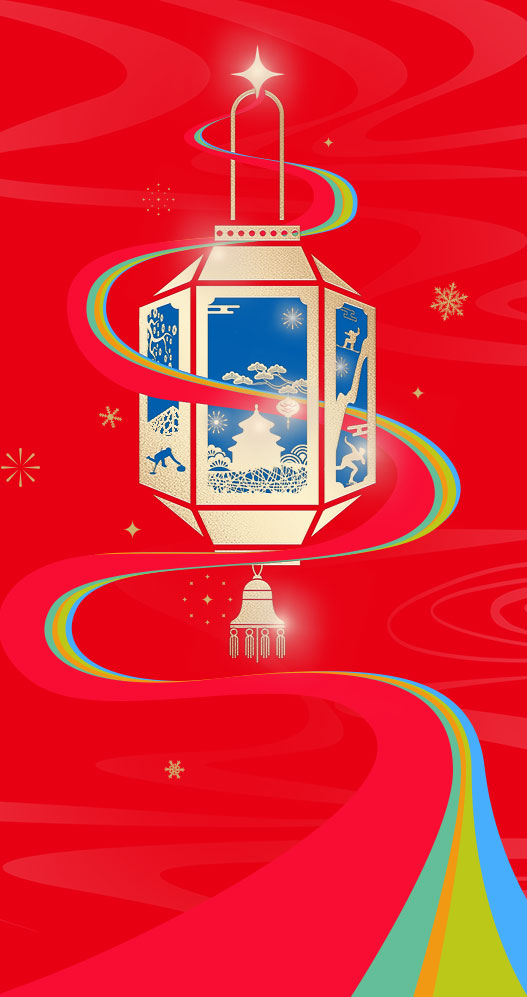
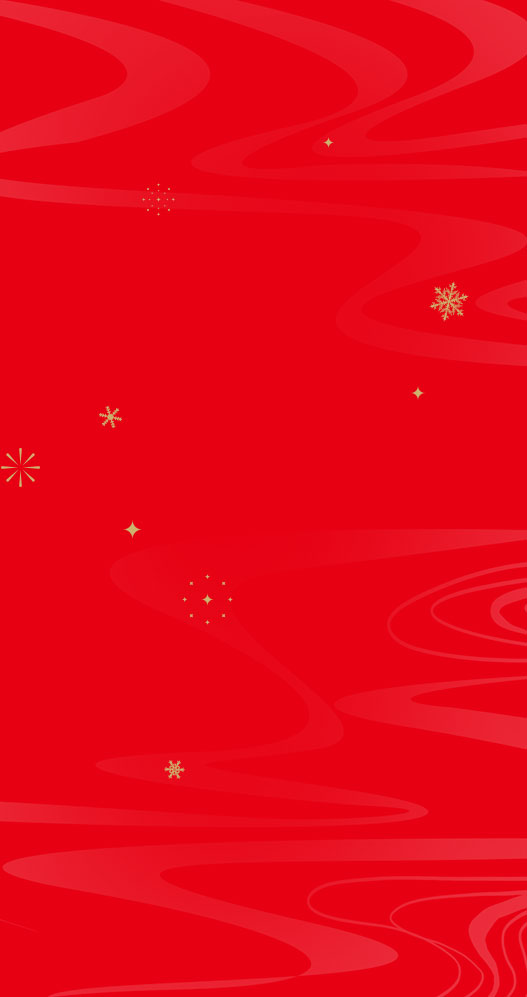
...

diff --git a/css/app.css b/css/app.css
@@ -5,15 +5,18 @@ html, body { height: 100%; background-color: #e70013; }
 .m-btn { position: absolute; right: 10px; top: 10px; width: 20px; height: 20px; border: 2px solid white; border-radius: 50%;}
 .m-btn { background: black url("../img/switch.png") 50% 50%/100% 100% no-repeat; opacity: 0.5; z-index: 99;}
 
-.ele { position: absolute; }
+.ele { position: absolute }
 .ele img { width: 100%; }
+.intro { display: none }
 .bar { position: absolute; width: 100%; left: 0; bottom: 0; padding: 10px 0 20px; text-align: center; background-color: white }
 
 .m-btn { animation: key-btn 600ms ease infinite; }
-.intro { animation: key-intro 2s ease; }
+.intro1 { animation: key-intro1 1s; height: 700px; background: url("../img/017.png") center top; background-size: cover }
+.intro2 { animation: key-intro2 1s; }
+.intro3 { animation: key-intro3 2s; }
 .roll { animation: key-roll 2s ease-in-out infinite alternate-reverse; }
-.loop { animation: key-loop 3s ease infinite; }
-.loop2 { animation: key-scale 8s ease-in infinite; }
+.loop { animation: key-loop 3s ease infinite; display: none }
+.loop2 { animation: key-scale 6s ease-in infinite; }
 .moving1 { animation: key-slider1 12s ease infinite; }
 .moving2 { animation: key-slider2 10s ease infinite; }
 .moving3 { animation: key-slider3 10s ease infinite; }
@@ -25,14 +28,20 @@ html, body { height: 100%; background-color: #e70013; }
     50% { transform: scale(1.1);}
     100% { transform: scale(1);}
 }
-@keyframes key-intro {
-    from { transform: scale(0.5); opacity: 0 }
+@keyframes key-intro1 {
+    from { height: 0 }
+}
+@keyframes key-intro2 {
+    from { transform: translateY(-50px) }
+}
+@keyframes key-intro3 {
+    from { transform: scale(0.5) }
 }
 @keyframes key-roll {
     from { transform: scaleX(-1); }
 }
 @keyframes key-loop {
-    10% { transform: scale(1); }
+    10% { transform: scale(1); opacity: 1 }
     25% { transform: scale(1.3); }
     50% { transform: scale(1); }
 }
@@ -57,13 +66,13 @@ html, body { height: 100%; background-color: #e70013; }
 @keyframes key-slider3 {
     0% { transform: translate(10px, -10px) scale(0.5); opacity: 0 }
     10% { transform: translate(5px, -5px) scale(1); opacity: 1 }
-    90% { transform: translate(0px, 0px) scale(1); opacity: 1 }
+    90% { transform: translate(-5px, 5px) scale(1); opacity: 1 }
     100% { transform: translate(30px, 5px) scale(1.2); opacity: 0 }
 }
 @keyframes key-slider4 {
     0% { transform: translate(-20px, -5px) scale(0.6); opacity: 0 }
     10% { transform: translate(0, 0) scale(1); opacity: 1 }
-    90% { transform: translate(5px, 0px) scale(1); opacity: 1 }
+    90% { transform: translate(10px, 0px) scale(1); opacity: 1 }
     100% { transform: translate(100px, 15px) scale(1.5); opacity: 0 }
 }
 

diff --git a/index.html b/index.html
@@ -15,6 +15,10 @@
 <body>
 <div class="app-body">
     <div id="musicSwitch" class="m-btn"></div>
+    <div class="ele intro1 intro" style="width: 390px; left: 0; top: 30px;"></div>
+    <div class="ele intro2 intro" style="width: 190px; left: 95px; top: 60px;"><img src="img/016.png"/></div>
+    <div class="ele roll intro" style="width: 80px; left: 150px; top: 495px;"><img src="img/012.png"/></div>
+    <div class="ele intro3 intro" style="width: 80px; left: 30px; bottom: 120px;"><img src="img/003.png"/></div>
     <div class="ele loop2 random" style="width: 90px; left: -20px; top: 50px;"><img src="img/001.png"/></div>
     <div class="ele loop2 random" style="width: 160px; right: -60px; top: -40px;"><img src="img/002.png"/></div>
     <div class="ele loop2 random" style="width: 65px; right: 60px; top: 430px;"><img src="img/004.png"/></div>
@@ -22,11 +26,9 @@
     <div class="ele loop" style="width: 18px; left: 172px; top: 243px;"><img src="img/007.png"/></div>
     <div class="ele loop" style="width: 18px; left: 190px; top: 243px;"><img src="img/008.png"/></div>
     <div class="ele loop" style="width: 18px; left: 208px; top: 243px;"><img src="img/009.png"/></div>
-    <div class="ele intro" style="width: 80px; left: 30px; bottom: 120px;"><img src="img/003.png"/></div>
     <div class="ele moving1 random" style="width: 50px; left: 50px; top: 150px;"><img src="img/005.png"/></div>
     <div class="ele moving2 random" style="width: 50px; right: 30px; top: 260px;"><img src="img/010.png"/></div>
     <div class="ele moving3 random" style="width: 60px; left: 0; bottom: 360px;"><img src="img/011.png"/></div>
-    <div class="ele roll" style="width: 80px; left: 150px; top: 485px;"><img src="img/012.png"/></div>
     <div class="ele moving4 random" style="width: 120px; left: 165px; bottom: 120px;"><img src="img/013.png"/></div>
 </div>
 <div class="bar"><img src="img/014.png" width="220" /></div>
@@ -41,7 +43,10 @@
     //
     $(function () {
         //
-        $(".loop").each(function (i) {
+        $(".intro").each(function (i) {
+            $(this).delay(i * 800).fadeIn(400)
+        });
+        $(".loop").delay(2000).fadeIn(400).each(function (i) {
             $(this).css("animation-delay", i * 200 + "ms")
         });
         $(".random").each(function () {
